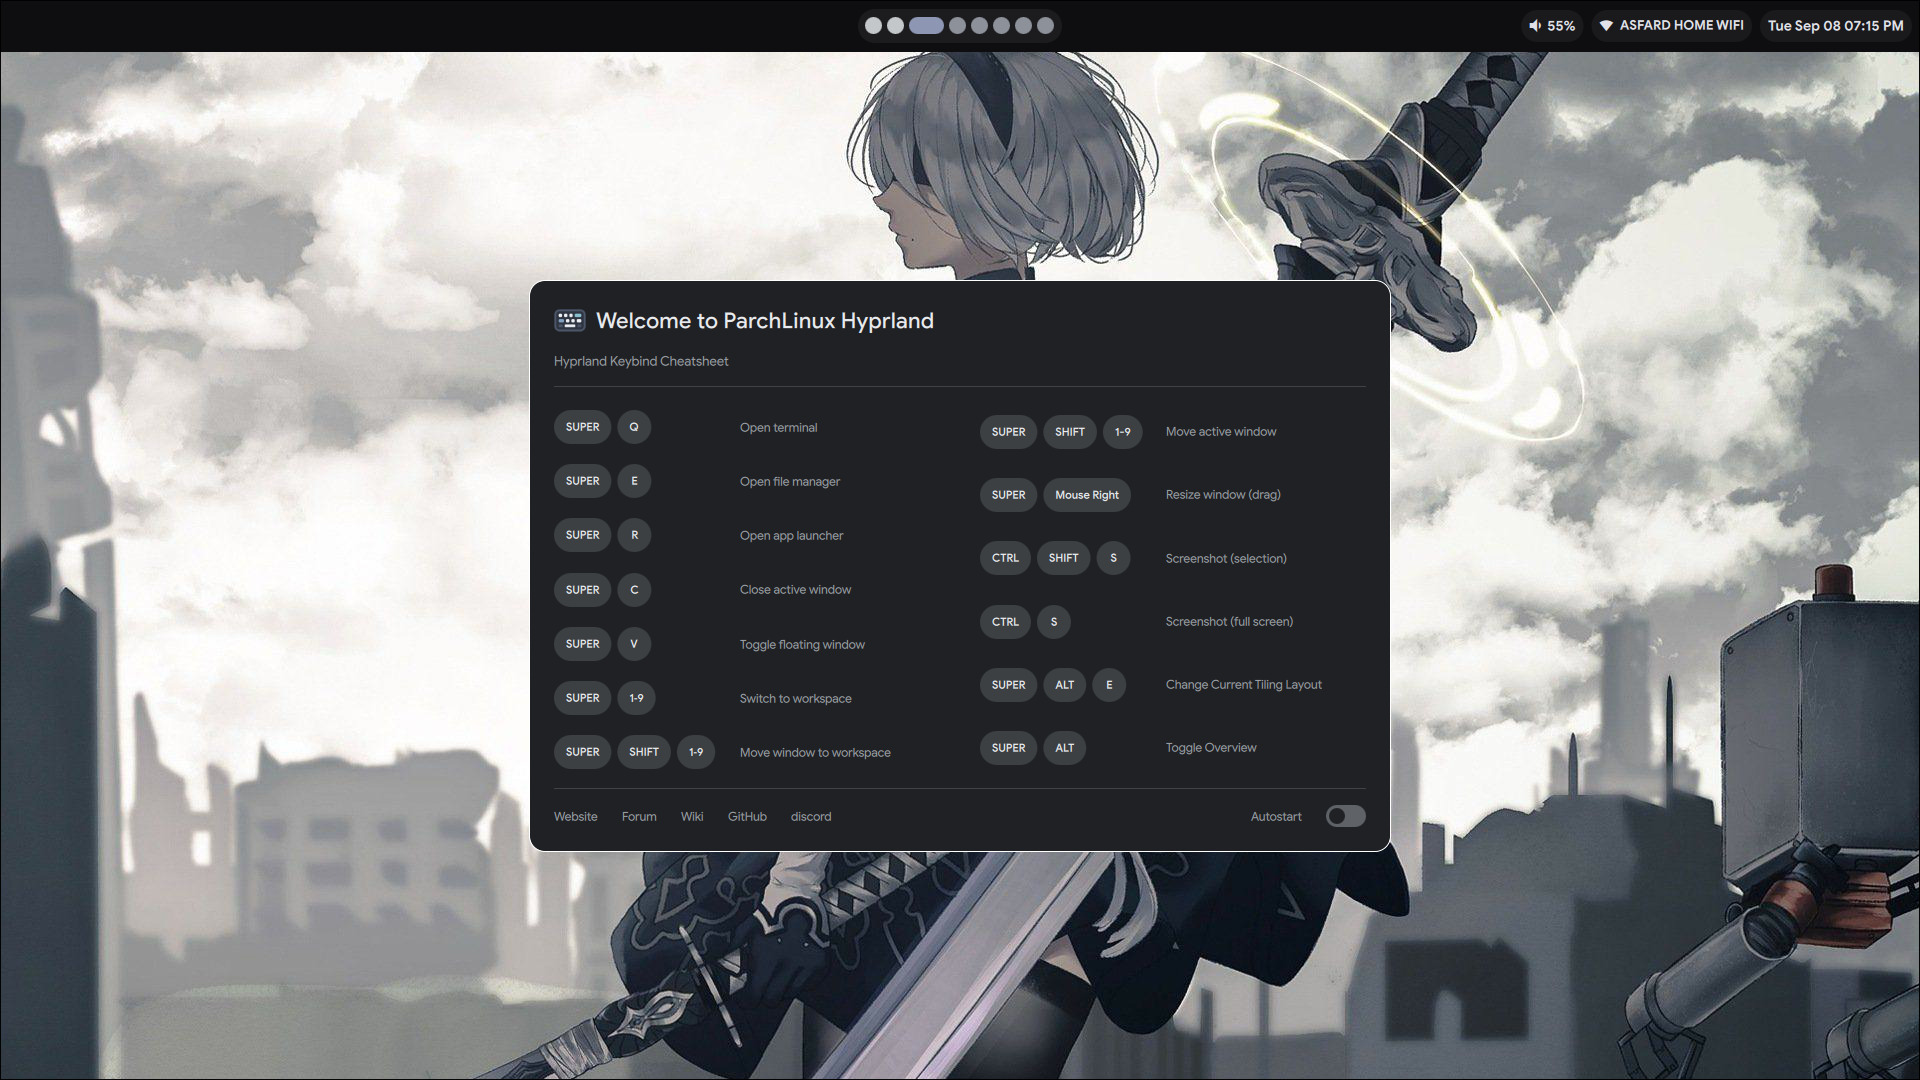
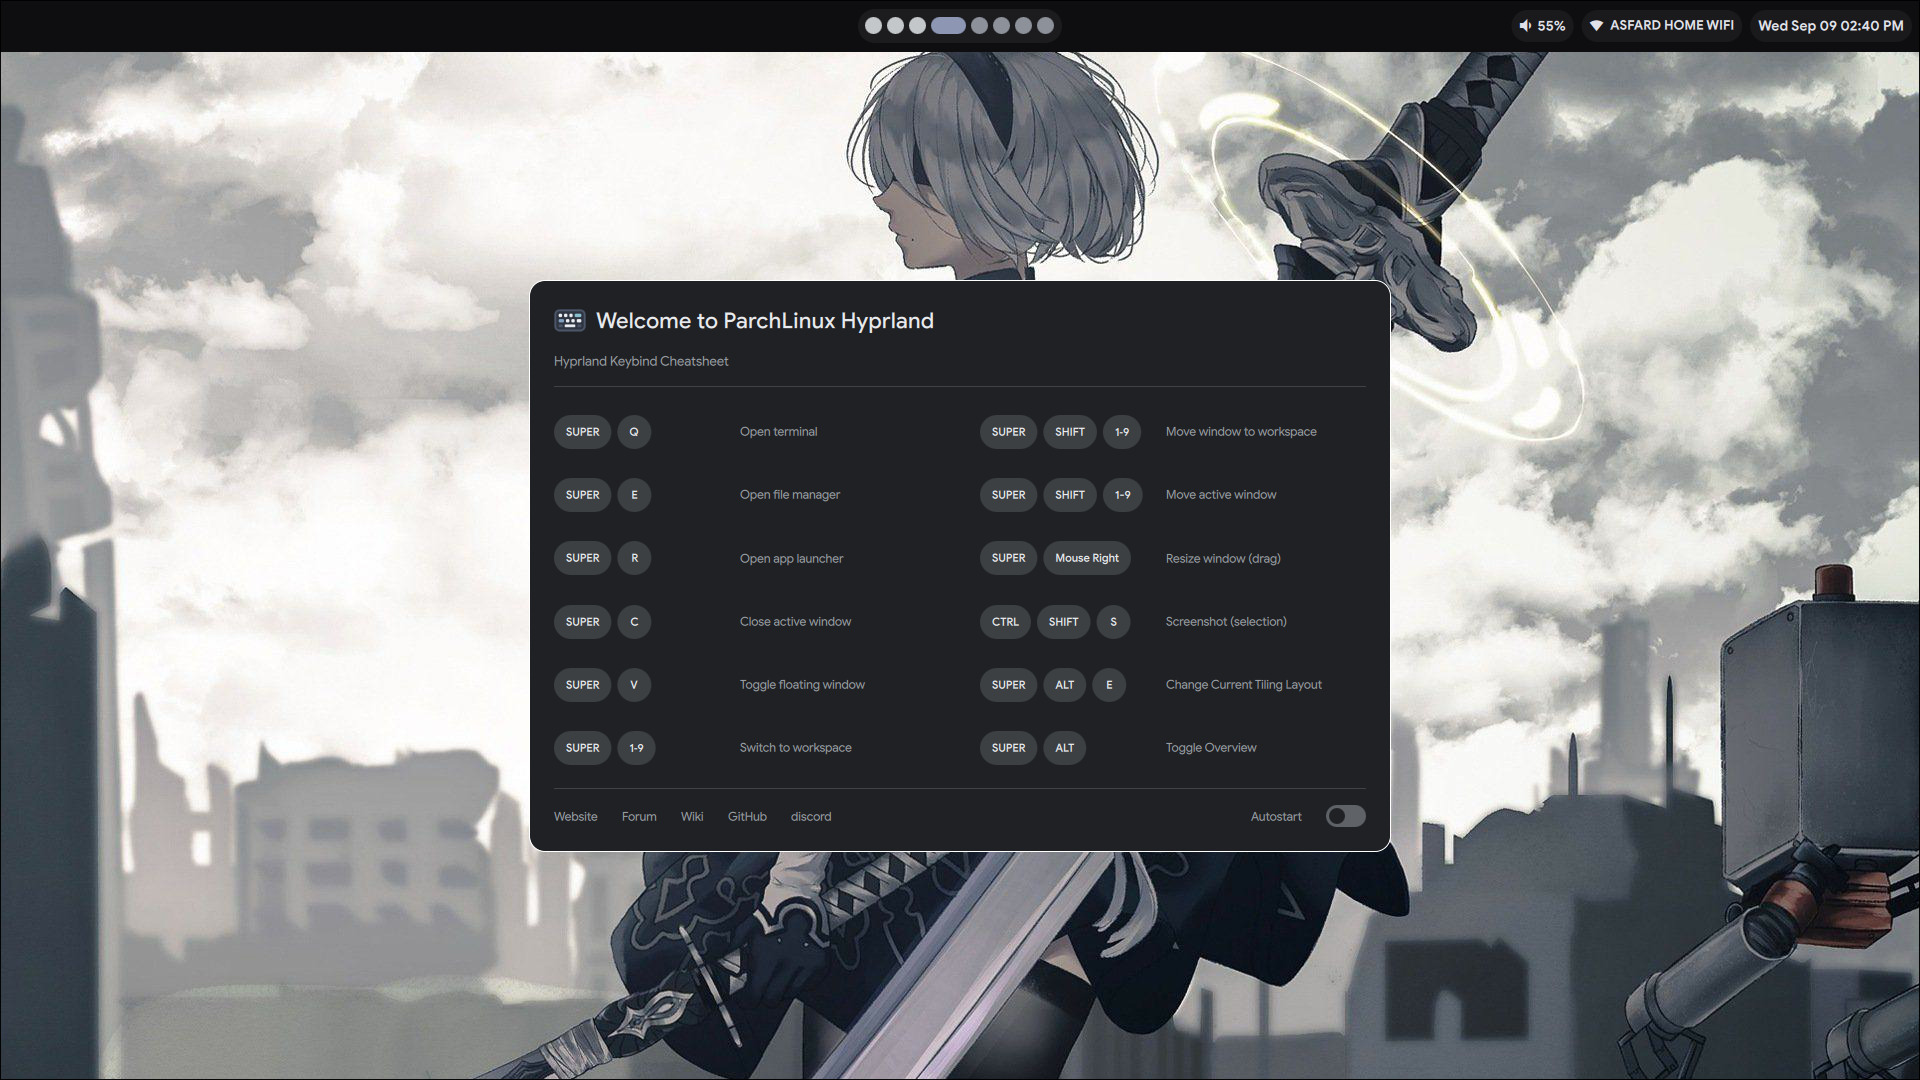
Keybinds Fix

diff --git a/cheatsheet.qml b/cheatsheet.qml
@@ -69,7 +69,6 @@ ShellRoot {
             { combo: ["SUPER", "SHIFT", "1-9"],   desc: "Move active window" },
             { combo: ["SUPER", "Mouse Right"],    desc: "Resize window (drag)" },
             { combo: ["CTRL", "SHIFT", "S"],      desc: "Screenshot (selection)" },
-            { combo: ["CTRL", "S"],               desc: "Screenshot (full screen)" },
             { combo: ["SUPER", "ALT" , "E"],      desc: "Change Current Tiling Layout" },
             { combo: ["SUPER" , "ALT"],           desc:"Toggle Overview"}
         ]
